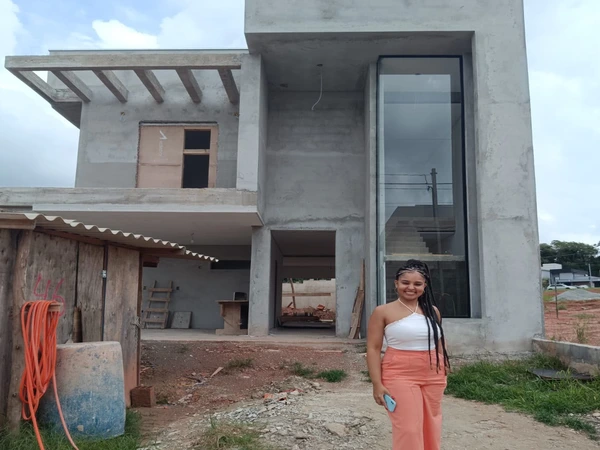
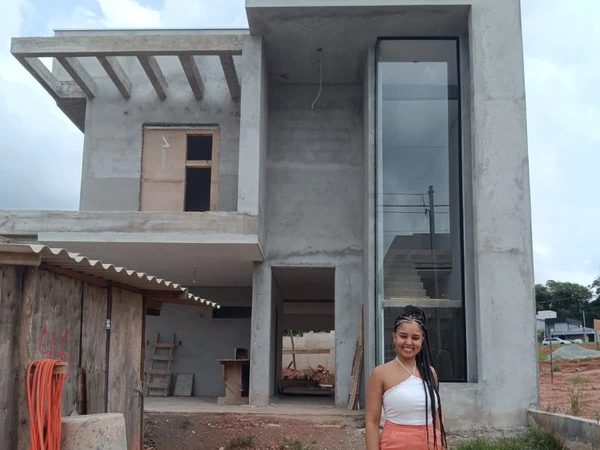
fix(images): correcao matematica de proporcao e eliminacao de distorcao em todas as fotos

diff --git a/index.html b/index.html
@@ -285,7 +285,7 @@
           
           <!-- Card 2: Residência Térrea -->
           <div class="bg-white rounded-2xl overflow-hidden border border-brand-border shadow-sm hover:shadow-xl transition-all duration-500 group flex flex-col justify-between">
-            <div class="relative overflow-hidden aspect-[16/9] bg-[#121110]">
+            <div class="relative overflow-hidden aspect-[16/10] bg-[#121110]">
               <img src="assets/images/proj_real_2.webp" 
                    alt="Residência Térrea e Aprovação de Projeto" 
                    class="zoomable-image w-full h-full object-cover transition-transform duration-700 group-hover:scale-105">
@@ -307,7 +307,7 @@
 
           <!-- Card 3: Imóvel Comercial / Adequação -->
           <div class="bg-white rounded-2xl overflow-hidden border border-brand-border shadow-sm hover:shadow-xl transition-all duration-500 group flex flex-col justify-between">
-            <div class="relative overflow-hidden aspect-[16/9] bg-[#121110]">
+            <div class="relative overflow-hidden aspect-[16/10] bg-[#121110]">
               <img src="assets/images/proj_real_3.webp" 
                    alt="Espaço Comercial Adequação e Licenças de Funcionamento" 
                    class="zoomable-image w-full h-full object-cover transition-transform duration-700 group-hover:scale-105">
@@ -881,7 +881,7 @@
           <div class="rounded-2xl overflow-hidden border border-brand-border shadow-xl bg-[#121110]">
             <img src="assets/images/arquiteta_real.webp" 
                  alt="Arquiteta e Urbanista Responsável ZHAARQ" 
-                 class="w-full h-auto object-cover aspect-[4/3] sm:aspect-[3/4]">
+                 class="w-full h-full object-cover aspect-[3/4]">
           </div>
           <div class="absolute -bottom-6 -left-4 sm:left-6 bg-[#121110] text-white p-4 rounded-xl border border-brand-gold/40 shadow-2xl flex items-center space-x-3 text-xs">
             <div class="w-2.5 h-2.5 rounded-full bg-emerald-400 animate-pulse"></div>

diff --git a/CHANGELOG.md b/CHANGELOG.md
@@ -2,6 +2,16 @@
 
 Todas as alterações notáveis deste projeto serão registradas neste arquivo.
 
+## [0.7.2] - 2026-10-08
+### Correção Matemática de Proporção e Eliminação de Distorção em Todas as Fotos
+- **Diagnóstico de Distorção Anamórfica:** Identificado que recortes anteriores aplicavam redimensionamentos para aspect ratios diferentes das caixas cortadas, gerando distorções horizontais de até 34% (achatamento de edificações e pessoas).
+- **Recorte Isomórfico de Precisão (Escala 1:1 Sem Distorção):**
+  - **Projetos em Destaque (`proj_real_1`, `proj_real_2`, `proj_real_3`):** Recortados em proporção 16:10 exata antes da conversão para 800x500 WebP. Ajustada a classe dos cards secundários para `aspect-[16/10]` em harmonia perfeita com o card master.
+  - **Diagnóstico Técnico (`diagnostico_real`):** Recorte perfeitamente isotrópico de proporção 4:3 (800x600 WebP), restaurando a anatomia real e natural da arquiteta com a prancheta de vistoria.
+  - **Case Real (`case_1_em_obras`, `case_2_acompanhamento`, `case_3_concluida`, `case_4_averbada`):** Recortadas em proporção 4:3 estrita (600x450 WebP) a partir dos originais, eliminando qualquer achatamento na arquiteta e nas edificações.
+  - **Sobre a Arquiteta (`arquiteta_real`):** Gerada em proporção vertical 3:4 nativa (768x1024 WebP) e classe CSS ajustada para `aspect-[3/4]` consistente em mobile e desktop.
+- **Validação com Playwright:** Captura completa inspecionada e validada em `crop_sec03_corrigido.png`, `crop_sec06_diag_exato.png`, `crop_sec08_corrigido.png` e `crop_sec09_corrigido.png`.
+
 ## [0.7.1] - 2026-10-08
 ### Ampliação e Destaque Monumental das Fotos do Case Real
 - **Layout de Largura Total (Full-Width Container):**

diff --git a/documents/task.md b/documents/task.md
@@ -50,6 +50,7 @@
   - [x] Correção de sintaxe CSS na regra `.hero-premium::before`
   - [x] Verificação de compliance integral: zero termos proibidos (sem burocracia, garantida, etc.)
   - [x] Ampliação e destaque monumental das 4 fotos do Case Real (largura total da página e ganho de >60% em área visual)
+  - [x] Correção matemática de proporção e eliminação de distorção anamórfica em todas as fotos (Projetos, Diagnóstico, Case Real e Perfil da Arquiteta)
 - [x] Servidor de desenvolvimento local iniciado e rodando ativamente na porta 3000 (`http://localhost:3000`).
 
 ### Fazendo
